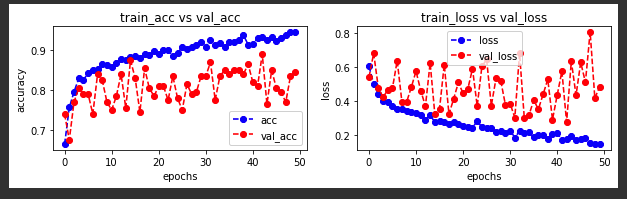
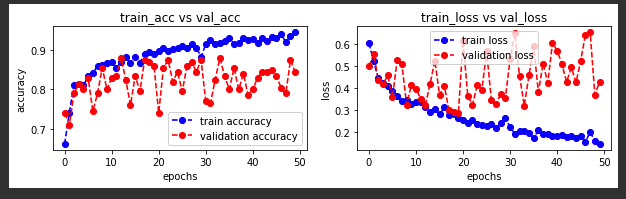
updated README.md

diff --git a/README.md b/README.md
@@ -1,6 +1,6 @@
 # Horse Donkey Classification
 
-This is a horse-donkey image classifier using Keras CNN. The test accuracy is currently 0.855.
+This is a horse-donkey image classifier using Keras CNN. The test accuracy is currently 0.865.
 
 
 ## Tech Stack Highlights
@@ -54,12 +54,12 @@ Rename all the images in a folder for easier management. For example, if there a
 Train, evaluate and save the Keras CNN image classification model. The model can also be used to predict new pictures.
 
 ## Results
-The testing accuracy (predicting unseen images) is 0.855.
+The testing accuracy (predicting unseen images) is 0.865.
 <br>![Report](my_images/report.png)<br>
 
 Here are the predictions done on new images.
 <br>![Predictions](my_images/predictions.png)<br>
-We can see only the last picture, which should be a donkey, is wrongly classified.
+We can see only the fifth picture, which should be a horse, is wrongly classified.
 
 ## Reflection and Next Steps
 While the testing accuracy is quite satisfying, I noticed that the learning curve in terms of validation accuracy and validation loss during the training process was not that stable or smooth. That means the model performed extremely well on training set but not that well on pictures they never saw.  
